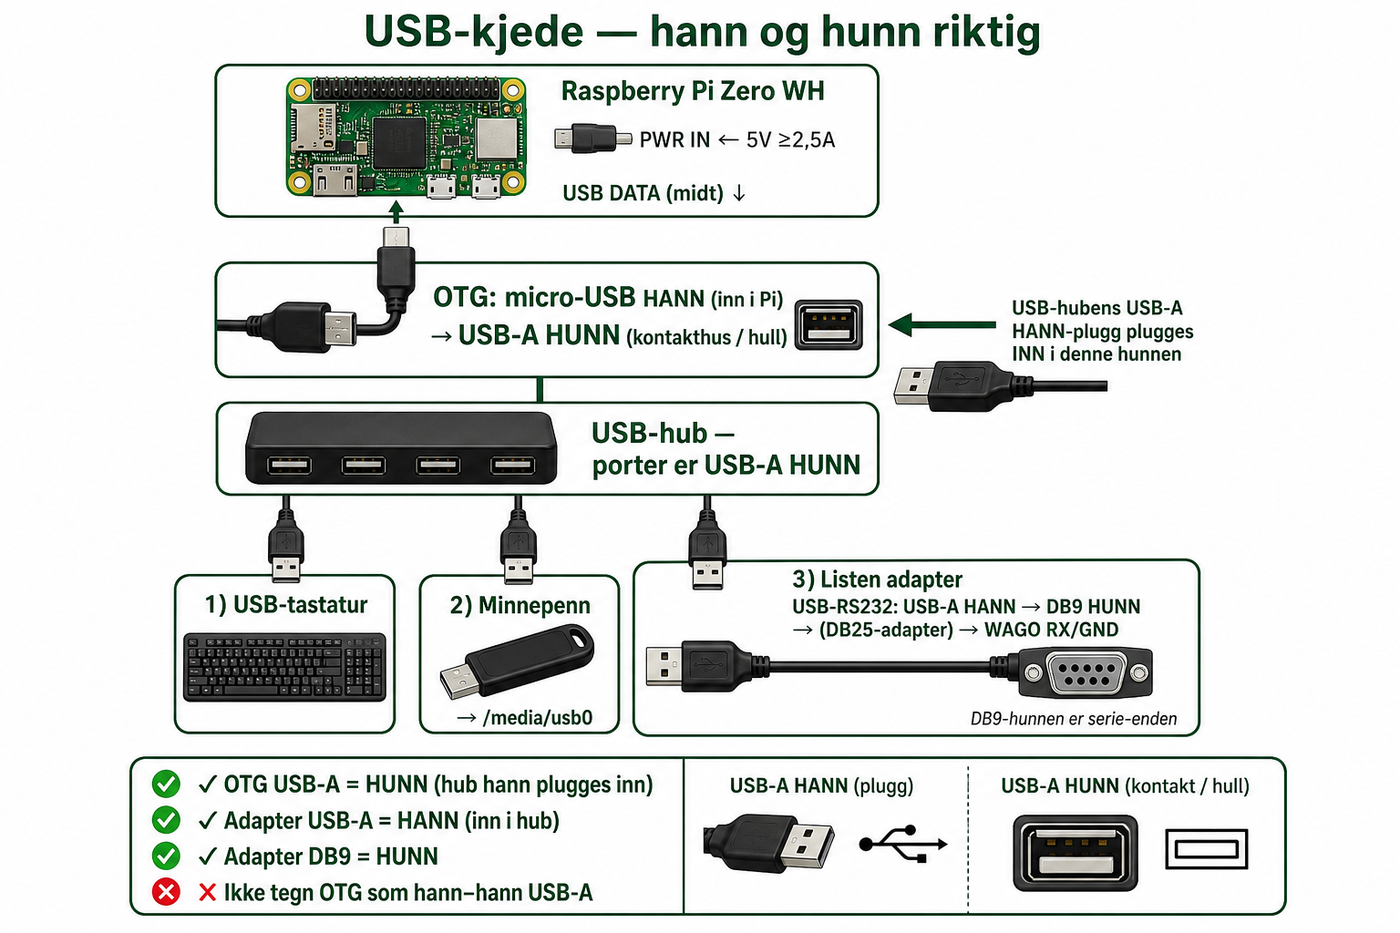
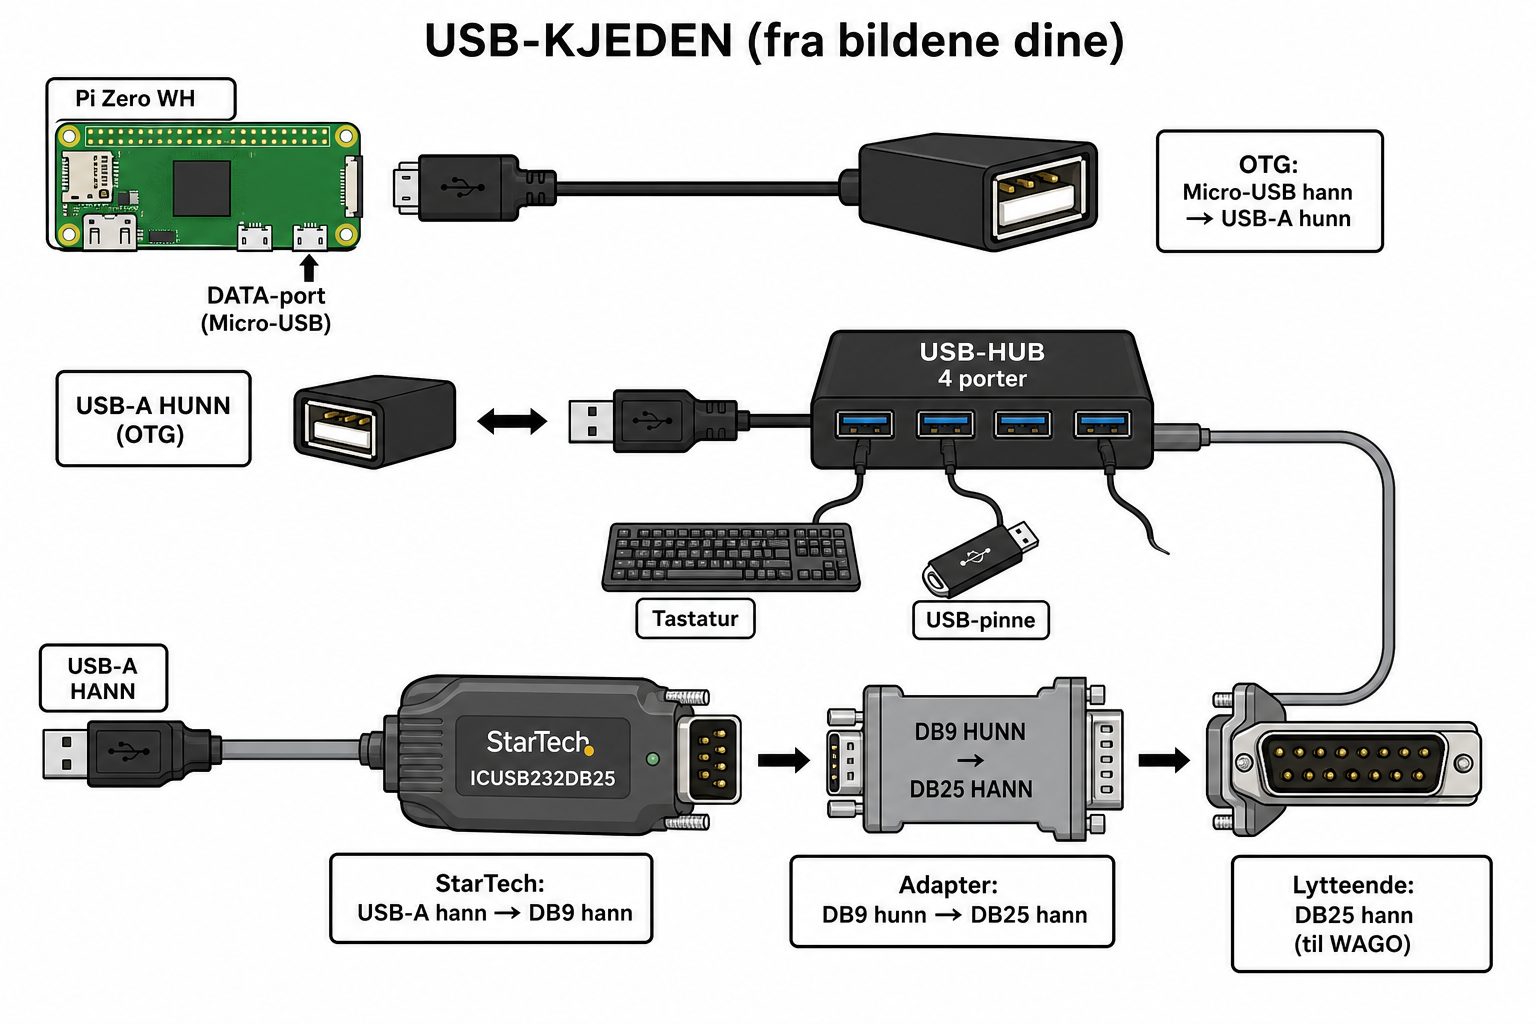
Korriger USB-diagram etter foto: StarTech ender i DB9 hann
OTG er micro-USB hann → USB-A hunn (som før). StarTech ICUSB232DB25
har DB9 hann, ikke hunn; egen adapter gir DB25 hann til WAGO.

diff --git a/docs/no/INSTALLATION.md b/docs/no/INSTALLATION.md
@@ -141,19 +141,22 @@ Steg for steg:
 
 ### USB-kjede
 
-<img src="img/usb-kjede-komplett.png" width="100%" alt="USB-kjede: WAGO-tapp → ICUSB232DB25 → hub"/>
+<img src="img/usb-kjede-komplett.png" width="100%" alt="USB-kjede: Pi DATA → OTG (USB-A hunn) → hub → StarTech DB9 hann → DB25 hann"/>
 
-OTG-adapteren **må** i **data**-porten midt på Pi Zero — hjørneporten er kun strøm (**PWR IN**).
+OTG-adapteren **må** i **data**-porten midt på Pi Zero — hjørneporten er kun strøm (**PWR IN**).  
+Fra bildene: OTG er micro-USB **hann** → USB-A **hunn**. StarTech ender i DB9 **hann**; egen adapter gir DB25 **hann** til WAGO.
 
 **Anbefalt produksjonsoppsett (tastatur + minnepenn + serieadapter samtidig):**
 
 ```text
 PWR IN (hjørne) ─── 5V / ≥2,5 A vegglader (helst 3 A)
 
-USB midt ─── OTG ─── USB-hub (gjerne med egen strøm)
+USB midt ─── OTG (USB-A hunn) ─── USB-hub (gjerne med egen strøm)
                          ├── USB-tastatur
                          ├── minnepenn      → /media/usb0 (CSV+Excel)
-                         └── RS-232-adapter → /dev/ttyUSB0
+                         └── StarTech ICUSB232DB25
+                               USB-A hann → DB9 hann → adapter → DB25 hann → WAGO
+                               → /dev/ttyUSB0
 ```
 
 - SD-kortet er alltid fasiten (fangst fortsetter uten minnepenn).

diff --git a/docs/en/wiring.md b/docs/en/wiring.md
@@ -9,7 +9,7 @@
 | PLC and OKI | **DB25** |
 | Extension (middle) | Often a **DB9** cable with **DB25 adapters** on each end |
 | Pi OTG | micro-USB **male** (into Pi) → USB-A **female** (hub male plugs in) |
-| Pi listen | USB–RS232: USB-A **male** (into hub) → DB9 **female** → DB25 adapter → WAGO |
+| Pi listen | StarTech ICUSB232DB25: USB-A **male** → DB9 **male** → separate adapter DB9 **female**→DB25 **male** → WAGO |
 
 The signals to tap are still **DB25 pin 2 (TX)** and **pin 7 (GND)** at the PLC/printer.  
 In the DB9 middle section that maps to:
@@ -54,7 +54,7 @@ Pi ── micro-USB MALE ── OTG ── USB-A FEMALE
                                     ↑
                               hub (USB-A FEMALE ports)
                                     ↑
-              USB-A MALE ── USB-RS232 ── DB9 FEMALE ── DB25 adapter ── WAGO
+  USB-A MALE ── StarTech ── DB9 MALE ── adapter (DB9 FEMALE→DB25 MALE) ── WAGO
 ```
 
 | From WAGO | To listen adapter (serial end) |

diff --git a/docs/no/wiring.md b/docs/no/wiring.md
@@ -9,7 +9,7 @@
 | PLS og OKI | **DB25** |
 | Skjøtekabel (midt) | Ofte **DB9**-kabel med **DB25-adapter** i hver ende |
 | Pi OTG | micro-USB **hann** (inn i Pi) → USB-A **hunn** (hubens hann plugges inn) |
-| Pi-lytting | USB–RS232: USB-A **hann** (inn i hub) → DB9 **hunn** → DB25-adapter → WAGO |
+| Pi-lytting | StarTech ICUSB232DB25: USB-A **hann** → DB9 **hann** → egen adapter DB9 **hunn**→DB25 **hann** → WAGO |
 
 Signalet som skal tappes er fortsatt **DB25 pin 2 (TX)** og **pin 7 (GND)** på PLS/OKI-siden.  
 I DB9-midten tilsvarer det:
@@ -54,7 +54,7 @@ Pi ── micro-USB HANN ── OTG ── USB-A HUNN
                                     ↑
                               hub (USB-A HUNN-porter)
                                     ↑
-              USB-A HANN ── USB-RS232 ── DB9 HUNN ── DB25-adapter ── WAGO
+  USB-A HANN ── StarTech ── DB9 HANN ── adapter (DB9 HUNN→DB25 HANN) ── WAGO
 ```
 
 | Fra WAGO | Til lytteadapter (serie-ende) |

diff --git a/docs/en/INSTALLATION.md b/docs/en/INSTALLATION.md
@@ -103,9 +103,10 @@ Step by step:
 
 ### USB chain
 
-<img src="img/usb-chain-complete.png" width="100%" alt="USB chain: WAGO tap → ICUSB232DB25 → hub"/>
+<img src="img/usb-chain-complete.png" width="100%" alt="USB chain: Pi DATA → OTG (USB-A female) → hub → StarTech DB9 male → DB25 male"/>
 
-The OTG adapter **must** go in the middle **data** port on the Pi Zero — the corner port is power-only (**PWR IN**, ≥2.5 A wall supply).
+The OTG adapter **must** go in the middle **data** port on the Pi Zero — the corner port is power-only (**PWR IN**, ≥2.5 A wall supply).  
+From the photos: OTG is micro-USB **male** → USB-A **female**. StarTech ends in DB9 **male**; a separate adapter gives DB25 **male** to WAGO.
 
 ### OLED status display (optional)
 
